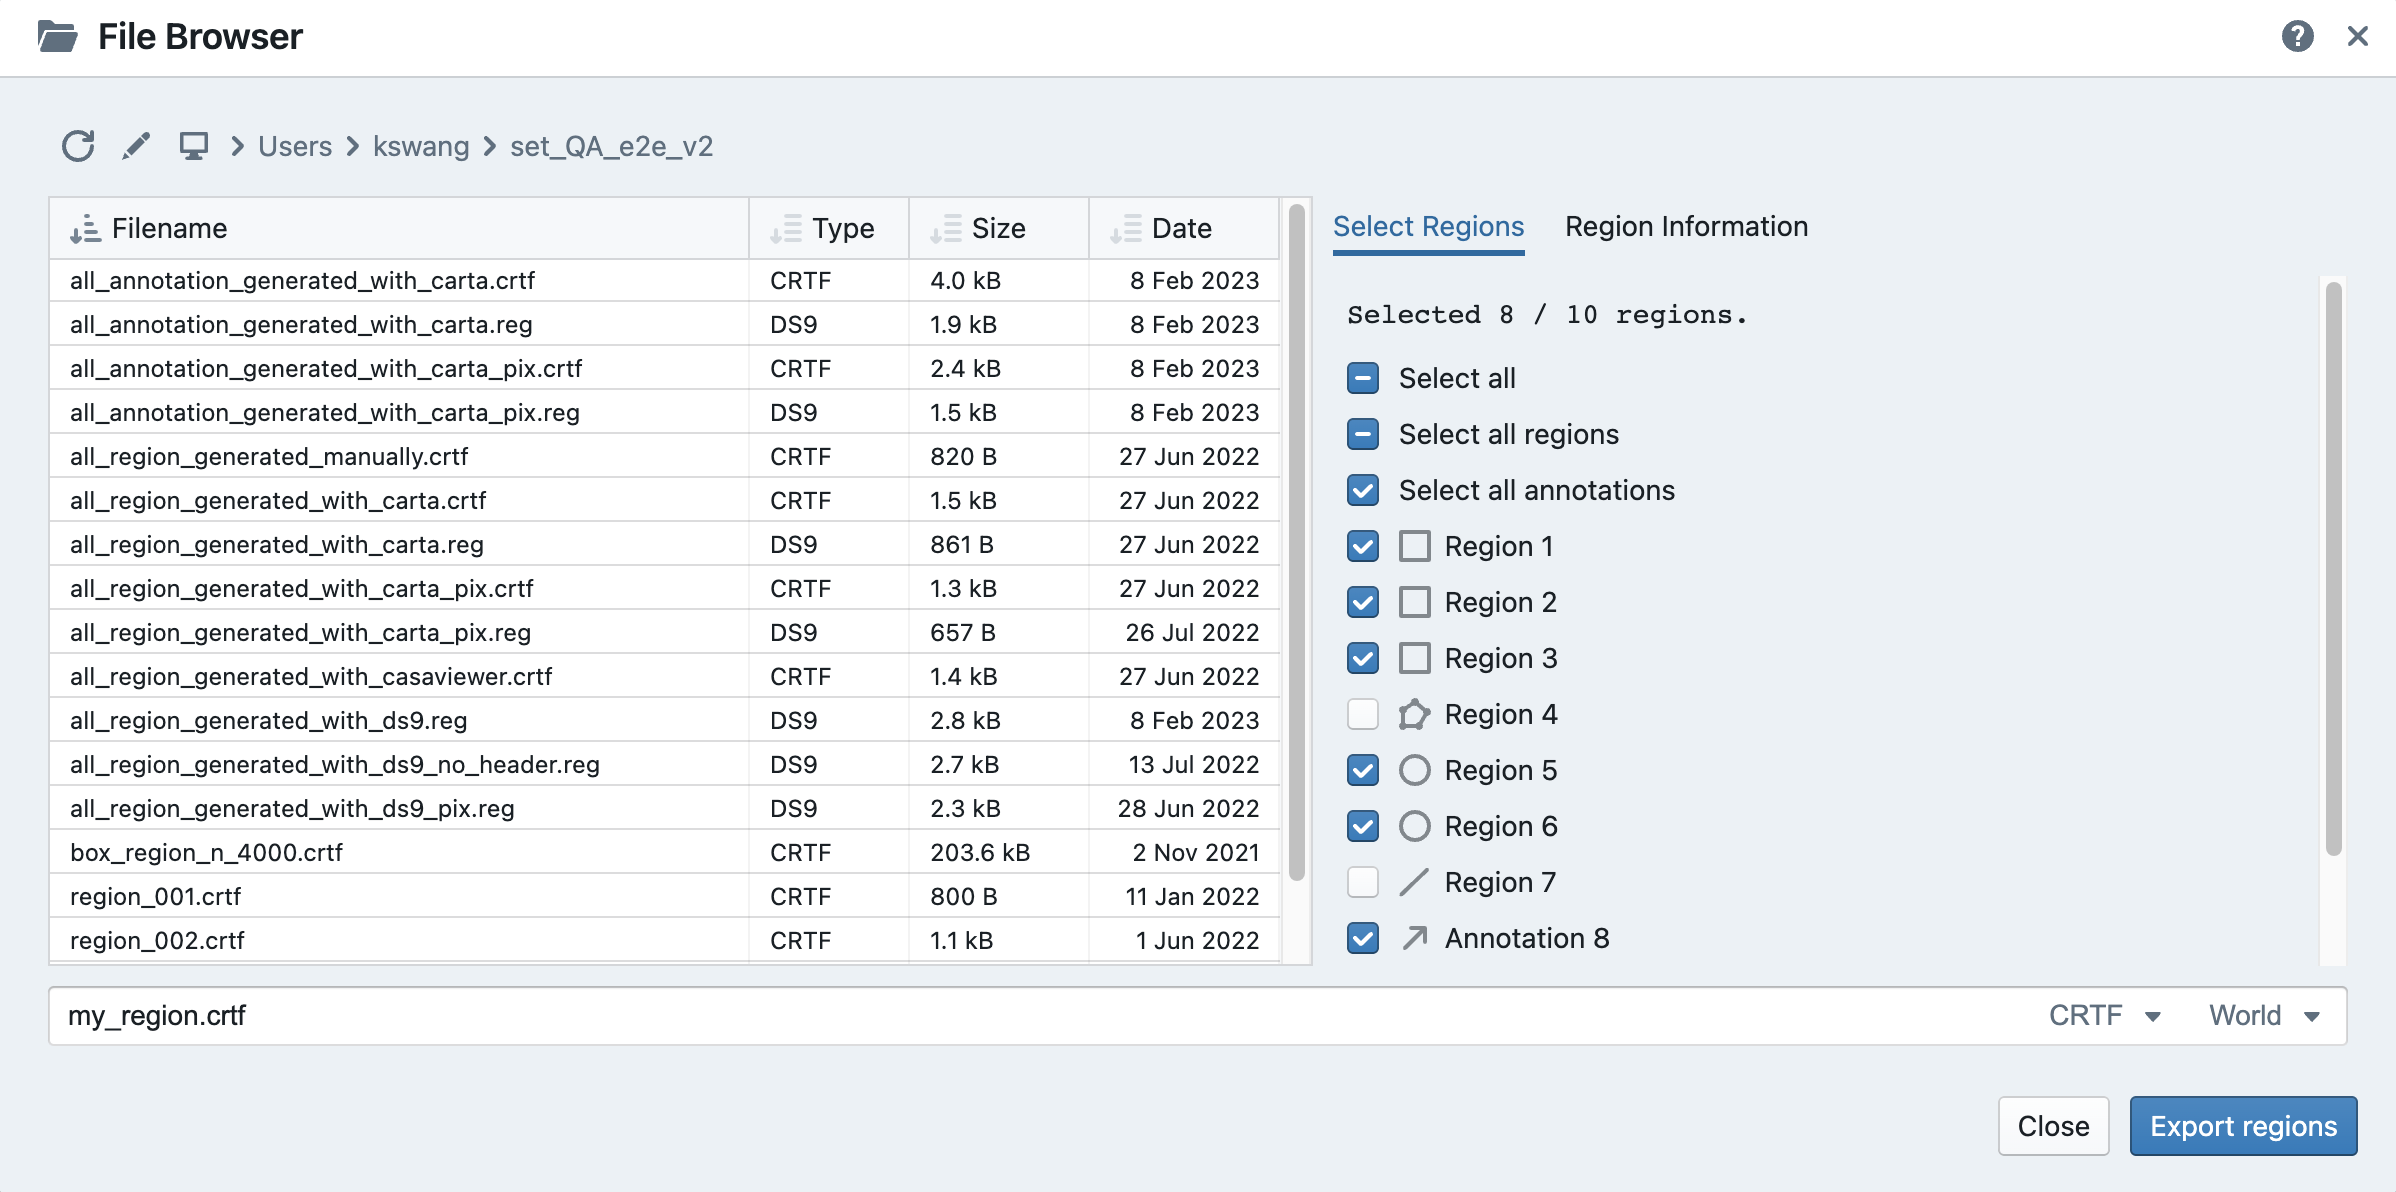
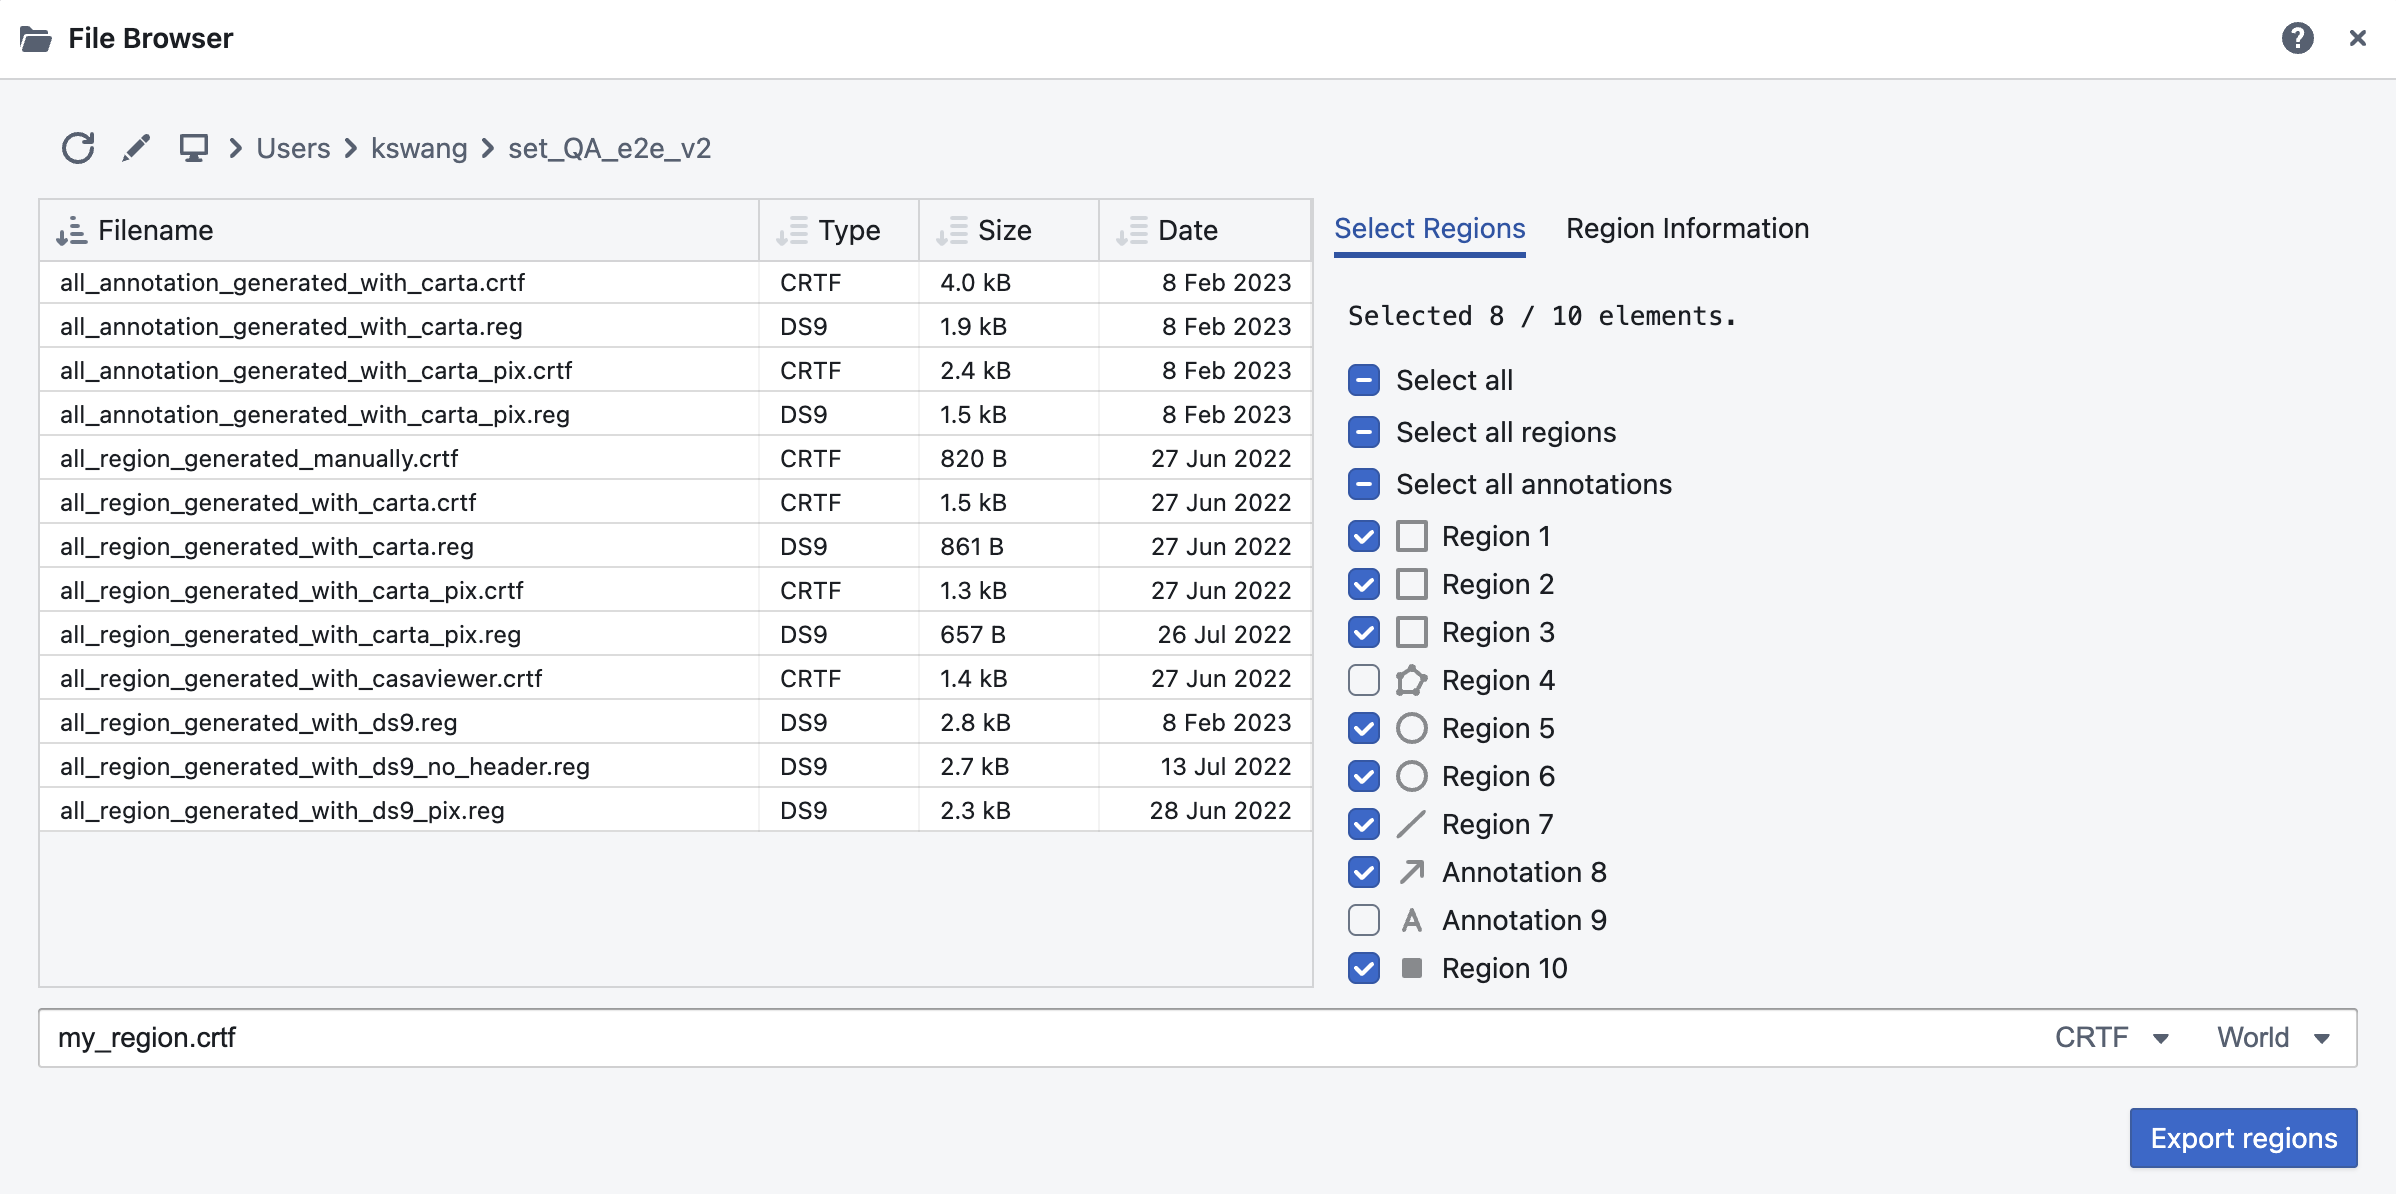
update screenshots and wording

Changed region(s): [[0.0, 0.1552, 0.9883, 0.9933], [0.0, 0.0, 1.0, 0.1552], [0.9574, 0.2483, 0.9883, 0.7139]]

diff --git a/source/fundamental_ideas.rst b/source/fundamental_ideas.rst
@@ -302,7 +302,7 @@ Shared region of interest enables practical image cube analysis through
 
 These widgets contain an "**Image**" dropdown menu and a "**Region**" dropdown menu. The former allows you to select which loaded image cube to show its analytics. The latter allows you to select which region to show the region analytics. By combining the two menus, CARTA provides a flexible user interface to explore image data. When the selected image has the polarization axis, you can use the "**Polarization**" dropdown menu to select which polarization component to use for deriving image analytics. 
 
-As an example below, two image cubes representing 12CO 2-1 and 13CO 2-1 are matched spatially and spectrally. Three shared regions are created to highlight different features. Three Spectral Profiler Widgets are placed to show different profiles. The top one shows the square region profile from 12CO 2-1. The middle one shows the polygon region profile of 13CO 2-1. The bottom one shows 12CO 2-1 and 13CO 2-1 profiles from the square region. Please refer to the section :ref:`spectral_profiler` to learn how to plot *multiple* profiles in one Spectral Profiler Widget. In addition, one Statistics Widget is configured to show the statistics of 12CO 2-1 from the circle region.
+As an example below, two image cubes representing 12CO 2-1 and 13CO 2-1 are matched spatially and spectrally. Three shared regions are created to highlight different features. Three Spectral Profiler Widgets are placed to show different profiles. The top one shows the square region profile from 12CO 2-1. The middle one shows the polygon region profile of 13CO 2-1. The bottom one shows both 12CO 2-1 and 13CO 2-1 profiles from the square region. Please refer to the section :ref:`spectral_profiler` to learn how to plot *multiple* profiles in one Spectral Profiler Widget. In addition, one Statistics Widget is configured to show the statistics of 12CO 2-1 from the circle region.
 
 .. raw:: html
 
@@ -427,8 +427,8 @@ In CARTA, the following image annotation objects are supported:
 Image annotation objects created with the graphical user interface can be exported as a "region" text file in the CRTF or ds9 format.
 
 
-What "Active" means?
---------------------
+What does "Active" mean?
+------------------------
 
 In CARTA, the term "active" is used to indicate the current focus of interaction. For example, an "active image" is the image (and a corresponding channel if it is an image cube) that is currently being viewed or analyzed in the Image Viewer as highlighted with a red box. 
 
@@ -469,7 +469,7 @@ The CARTA GUI has different components:
            style="width:100%;height:auto;">
    </a>
 
-The main browser window consists of a set of docked widgets. Multiple docked widgets can be stacked and share the same space. In this case, inactive widgets are displayed as tabs. For example, the above figure shows five docked widgets in the main browser window. Among them, two docked widgets share the same space as tabs (render configuration and region list) in the bottom-left part of the GUI. A docked widget (i.e., a tab) may be detached to become a floating widget by clicking the "pin" button at the top-right corner of the widget. The GUI layout is highly configurable via mouse and is reusable. Please refer to the section :ref:`layoutConfiguration` for details.
+The main browser window consists of a set of docked widgets. Multiple docked widgets can be stacked and share the same space. In this case, inactive widgets are displayed as tabs. For example, the figure above shows five docked widgets in the main browser window. Among them, two docked widgets share the same space as tabs (render configuration and region list) in the bottom-left part of the GUI. A docked widget (i.e., a tab) may be detached to become a floating widget by clicking the "pin" button at the top-right corner of the widget (widget control buttons). The GUI layout is highly configurable via mouse and is reusable. Please refer to the section :ref:`layoutConfiguration` for details.
 
 The menu bar provides control options, such as image input/output, launching widgets, getting help, etc. The widget bar provides widgets to view or analyze images. The dialog bar provides dialogs for configurations. The region bar provides shortcut buttons for creating regions of interest or image annotation objects in the Image Viewer. 
 
